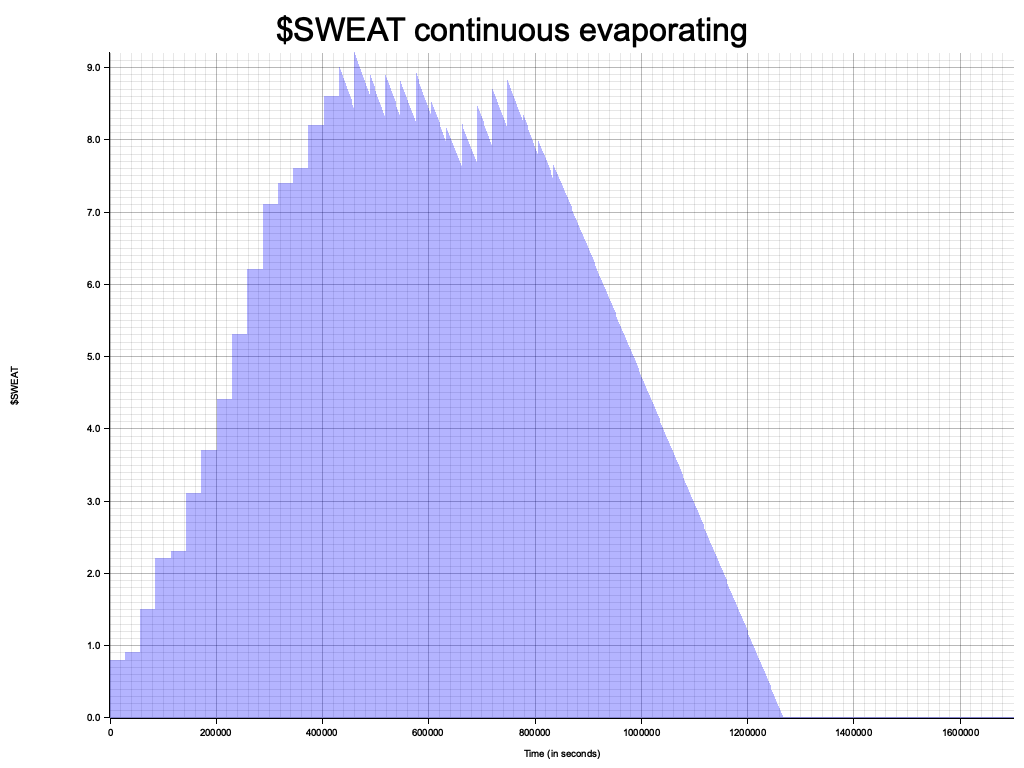
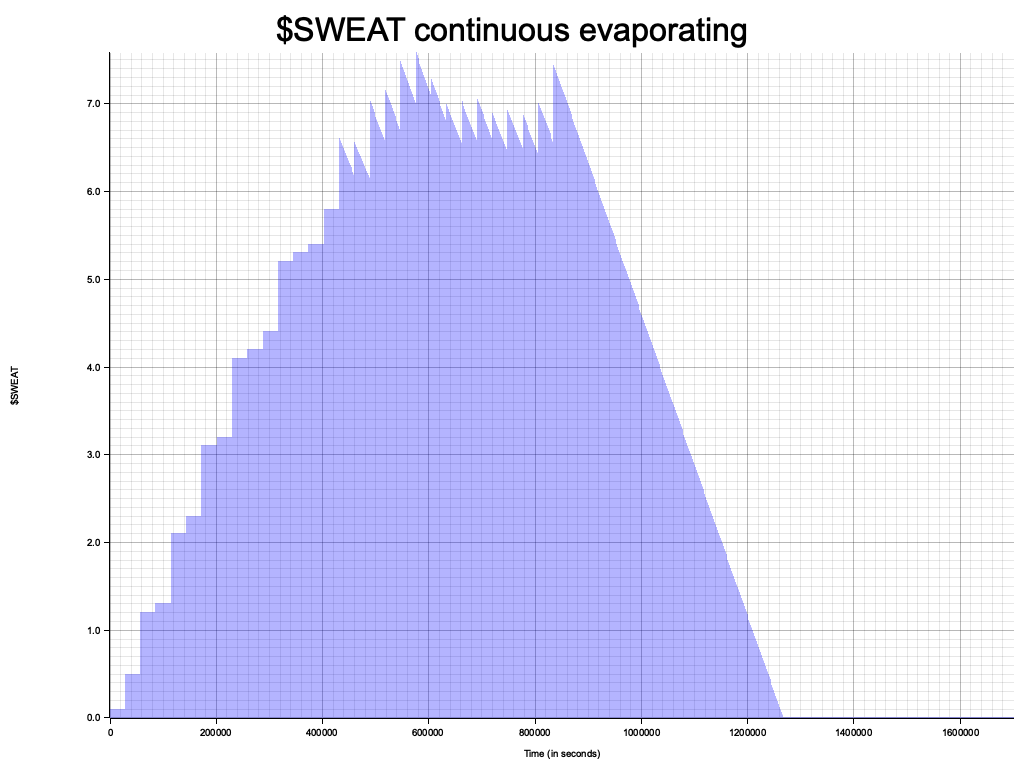
test: add util methods for test data

Changed region(s): [[0.0938, 0.0625, 1.0, 0.9375]]

diff --git a/contract/src/migration/tests.rs b/contract/src/migration/tests.rs
@@ -6,7 +6,7 @@ use claim_model::{
 };
 use near_sdk::json_types::U128;
 
-use crate::common::tests::Context;
+use crate::common::tests::{days_to_seconds, sweat_to_atto, Context};
 
 #[test]
 fn test_migration_with_burnt_balance_and_evaporating_sweat() {
@@ -15,30 +15,30 @@ fn test_migration_with_burnt_balance_and_evaporating_sweat() {
 
     context.switch_account(&accounts.oracle);
 
-    let burn_period = 864_000; // 10 days in seconds
+    let burn_period = days_to_seconds(10);
     contract.set_burn_period(burn_period);
 
     let mut current_timestamp = 0;
 
     // Record first top-up – 1 $SWEAT
-    let alice_balance_1 = U128(10u128.pow(18)); // 1 $SWEAT
-    contract.record_batch_for_hold_legacy(vec![(alice.clone(), alice_balance_1)]);
+    let alice_balance_1 = sweat_to_atto(1);
+    contract.record_batch_for_hold_legacy(vec![(alice.clone(), U128(alice_balance_1))]);
 
     // Time travel to some point in the future where alice_balance_1 is still not evaporated.
-    current_timestamp += 345_600; // + 4 days
-    context.set_block_timestamp_in_seconds(current_timestamp); // Now it's day 4
+    current_timestamp += days_to_seconds(4);
+    context.set_block_timestamp_in_seconds(current_timestamp as u64); // Now it's day 4
 
     // Record second top-up – 2 $SWEAT
-    let alice_balance_2 = U128(2 * 10u128.pow(18)); // 2 $SWEAT
-    contract.record_batch_for_hold_legacy(vec![(alice.clone(), alice_balance_2)]);
+    let alice_balance_2 = sweat_to_atto(2);
+    contract.record_batch_for_hold_legacy(vec![(alice.clone(), U128(alice_balance_2))]);
 
     // Time travel to some point in the future where alice_balance_1 evaporates
     // Now is 4 days from the start, so add not lees than 6 days.
-    current_timestamp += 691_200; // + 8 days
-    context.set_block_timestamp_in_seconds(current_timestamp); // Now it's day 12
+    current_timestamp += days_to_seconds(8);
+    context.set_block_timestamp_in_seconds(current_timestamp as u64); // Now it's day 12
 
     let alice_current_balance = contract.get_claimable_balance_for_account(alice.clone());
-    assert_eq!(alice_balance_2, alice_current_balance);
+    assert_eq!(alice_balance_2, alice_current_balance.0);
 
     // Migrate the Alice account
     let alice_account_outdated = contract.accounts_legacy.get(&alice).cloned().unwrap();
@@ -50,25 +50,25 @@ fn test_migration_with_burnt_balance_and_evaporating_sweat() {
 
     // Check that the balance is still the same
     let alice_current_balance = contract.get_claimable_balance_for_account(alice.clone());
-    assert_eq!(alice_balance_2, alice_current_balance);
+    assert_eq!(alice_balance_2, alice_current_balance.0);
 
     let alice_account = contract.accounts.get(alice).unwrap().into_latest();
     assert_eq!(
-        (current_timestamp - burn_period as u64) as UnixTimestamp,
+        (current_timestamp - burn_period) as UnixTimestamp,
         alice_account.burn_since
     );
     assert_eq!(
         alice_account_outdated.claim_period_refreshed_at,
         alice_account.claim_period_refreshed_at
     );
-    assert_eq!(alice_balance_2.0, alice_account.balance);
+    assert_eq!(alice_balance_2, alice_account.balance);
     assert!(alice_account.is_enabled);
     assert!(!alice_account.is_locked);
 
     // Time travel to some point in the future where alice_balance_2 evaporates.
     // As Alice hasn't claimed anything yet, it should start evaporating right after migration.
-    current_timestamp += 172_800; // + 2 days
-    context.set_block_timestamp_in_seconds(current_timestamp); // Now it's day 14
+    current_timestamp += days_to_seconds(2);
+    context.set_block_timestamp_in_seconds(current_timestamp as u64); // Now it's day 14
 
     let alice_current_balance = contract.get_claimable_balance_for_account(alice.clone());
     // Expect balance minus fee for 2 days of evaporating
@@ -83,34 +83,34 @@ fn test_migration_with_burnt_sweat_and_not_evaporating_sweat() {
 
     context.switch_account(&accounts.oracle);
 
-    let burn_period = 864_000; // 10 days in seconds
+    let burn_period = days_to_seconds(10);
     contract.set_burn_period(burn_period);
 
     let mut current_timestamp = 0;
 
     // Record first top-up – 1 $SWEAT
-    let alice_balance_1 = U128(10u128.pow(18)); // 1 $SWEAT
-    contract.record_batch_for_hold_legacy(vec![(alice.clone(), alice_balance_1)]);
+    let alice_balance_1 = sweat_to_atto(1);
+    contract.record_batch_for_hold_legacy(vec![(alice.clone(), U128(alice_balance_1))]);
 
     // Time travel to some point in the future where alice_balance_1 is still not evaporated.
-    current_timestamp += 172_800; // + 2 days
-    context.set_block_timestamp_in_seconds(current_timestamp); // Now it's day 2
+    current_timestamp += days_to_seconds(2);
+    context.set_block_timestamp_in_seconds(current_timestamp as u64); // Now it's day 2
 
     // Record second top-up – 4 $SWEAT
-    let alice_balance_2 = U128(4 * 10u128.pow(18)); // 4 $SWEAT
-    contract.record_batch_for_hold_legacy(vec![(alice.clone(), alice_balance_2)]);
+    let alice_balance_2 = sweat_to_atto(4);
+    contract.record_batch_for_hold_legacy(vec![(alice.clone(), U128(alice_balance_2))]);
 
     // Time travel to some point in the future where alice_balance_1 evaporates
     // Now is 2 days from the start, so add not lees than 8 days.
-    current_timestamp += 691_200; // + 8 days
-    context.set_block_timestamp_in_seconds(current_timestamp); // Now it's day 10
+    current_timestamp += days_to_seconds(8);
+    context.set_block_timestamp_in_seconds(current_timestamp as u64); // Now it's day 10
 
     let alice_current_balance = contract.get_claimable_balance_for_account(alice.clone());
-    assert_eq!(alice_balance_2, alice_current_balance);
+    assert_eq!(alice_balance_2, alice_current_balance.0);
 
     // One day later Alice claims their tokens
-    current_timestamp += 86_400; // + 1 day
-    context.set_block_timestamp_in_seconds(current_timestamp); // Now it's day 11
+    current_timestamp += days_to_seconds(1);
+    context.set_block_timestamp_in_seconds(current_timestamp as u64); // Now it's day 11
 
     // mime legacy claim
     let account = contract.accounts_legacy.get_mut(&accounts.alice.clone()).unwrap();
@@ -119,16 +119,16 @@ fn test_migration_with_burnt_sweat_and_not_evaporating_sweat() {
     // ---
 
     // Time travel to the near future
-    current_timestamp += 86_400; // + 1 day
-    context.set_block_timestamp_in_seconds(current_timestamp); // Now it's day 12
+    current_timestamp += days_to_seconds(1);
+    context.set_block_timestamp_in_seconds(current_timestamp as u64); // Now it's day 12
 
     // Record third top-up – 1 $SWEAT
-    let alice_balance_3 = U128(10u128.pow(18)); // 1 $SWEAT
-    contract.record_batch_for_hold_legacy(vec![(alice.clone(), alice_balance_3)]);
+    let alice_balance_3 = sweat_to_atto(1);
+    contract.record_batch_for_hold_legacy(vec![(alice.clone(), U128(alice_balance_3))]);
 
     // Two more day later a migration happens
-    current_timestamp += 172_800; // + 2 day
-    context.set_block_timestamp_in_seconds(current_timestamp); // Now it's day 14
+    current_timestamp += days_to_seconds(2);
+    context.set_block_timestamp_in_seconds(current_timestamp as u64); // Now it's day 14
 
     // Migrate the Alice account
     let alice_account_outdated = contract.accounts_legacy.get(&alice).cloned().unwrap();
@@ -140,7 +140,7 @@ fn test_migration_with_burnt_sweat_and_not_evaporating_sweat() {
 
     // Check that the balance is still the same
     let alice_current_balance = contract.get_claimable_balance_for_account(alice.clone());
-    assert_eq!(alice_balance_3, alice_current_balance);
+    assert_eq!(alice_balance_3, alice_current_balance.0);
 
     let alice_account = contract.accounts.get(alice).unwrap().into_latest();
     assert_eq!(
@@ -151,18 +151,18 @@ fn test_migration_with_burnt_sweat_and_not_evaporating_sweat() {
         alice_account_outdated.claim_period_refreshed_at,
         alice_account.claim_period_refreshed_at
     );
-    assert_eq!(alice_balance_3.0, alice_account.balance);
+    assert_eq!(alice_balance_3, alice_account.balance);
     assert!(alice_account.is_enabled);
     assert!(!alice_account.is_locked);
 
     // Time travel to some point in the future withing burn period.
     // As Alice has claimed their balance withing burn period, it shouldn't evaporate.
-    current_timestamp += 86_400; // + 1 days
-    context.set_block_timestamp_in_seconds(current_timestamp); // Now it's day 15
+    current_timestamp += days_to_seconds(1);
+    context.set_block_timestamp_in_seconds(current_timestamp as u64); // Now it's day 15
 
     let alice_current_balance = contract.get_claimable_balance_for_account(alice.clone());
     // Expect balance without any fees, as Alice claimed right before migration
-    let expected_balance = alice_balance_3.0;
+    let expected_balance = alice_balance_3;
     assert_eq!(expected_balance, alice_current_balance.0);
 }
 
@@ -173,30 +173,30 @@ fn test_migration_with_no_burnt_sweat() {
 
     context.switch_account(&accounts.oracle);
 
-    let burn_period = 864_000; // 10 days in seconds
+    let burn_period = days_to_seconds(10);
     contract.set_burn_period(burn_period);
 
     let mut current_timestamp = 0;
 
     // Record first top-up – 3 $SWEAT
-    let alice_balance_1 = U128(3 * 10u128.pow(18)); // 3 $SWEAT
-    contract.record_batch_for_hold_legacy(vec![(alice.clone(), alice_balance_1)]);
+    let alice_balance_1 = sweat_to_atto(3);
+    contract.record_batch_for_hold_legacy(vec![(alice.clone(), U128(alice_balance_1))]);
 
     // Time travel to some point in the future where alice_balance_1 is still not evaporated.
-    current_timestamp += 172_800; // + 2 days
-    context.set_block_timestamp_in_seconds(current_timestamp); // Now it's day 2
+    current_timestamp += days_to_seconds(2);
+    context.set_block_timestamp_in_seconds(current_timestamp as u64); // Now it's day 2
 
     // Record second top-up – 2 $SWEAT
-    let alice_balance_2 = U128(2 * 10u128.pow(18)); // 2 $SWEAT
-    contract.record_batch_for_hold_legacy(vec![(alice.clone(), alice_balance_2)]);
+    let alice_balance_2 = sweat_to_atto(2);
+    contract.record_batch_for_hold_legacy(vec![(alice.clone(), U128(alice_balance_2))]);
 
     // Time travel to some point in the future where both top-ups still don't evaporate
     // Now is 2 days from the start, so add not more than 8 days.
-    current_timestamp += 172_800; // + 2 days
-    context.set_block_timestamp_in_seconds(current_timestamp); // Now it's day 4
+    current_timestamp += days_to_seconds(2);
+    context.set_block_timestamp_in_seconds(current_timestamp as u64); // Now it's day 4
 
     let alice_current_balance = contract.get_claimable_balance_for_account(alice.clone());
-    assert_eq!(alice_balance_1.0 + alice_balance_2.0, alice_current_balance.0);
+    assert_eq!(alice_balance_1 + alice_balance_2, alice_current_balance.0);
 
     // Migrate the Alice account
     let alice_account_outdated = contract.accounts_legacy.get(&alice).cloned().unwrap();
@@ -208,7 +208,7 @@ fn test_migration_with_no_burnt_sweat() {
 
     // Check that the balance is still the same
     let alice_current_balance = contract.get_claimable_balance_for_account(alice.clone());
-    assert_eq!(alice_balance_1.0 + alice_balance_2.0, alice_current_balance.0);
+    assert_eq!(alice_balance_1 + alice_balance_2, alice_current_balance.0);
 
     let alice_account = contract.accounts.get(alice).unwrap().into_latest();
     assert_eq!(
@@ -219,17 +219,17 @@ fn test_migration_with_no_burnt_sweat() {
         alice_account_outdated.claim_period_refreshed_at,
         alice_account.claim_period_refreshed_at
     );
-    assert_eq!(alice_balance_1.0 + alice_balance_2.0, alice_account.balance);
+    assert_eq!(alice_balance_1 + alice_balance_2, alice_account.balance);
     assert!(alice_account.is_enabled);
     assert!(!alice_account.is_locked);
 
     // Time travel to some point in the future withing burn period.
     // As burn period hasn't passed, it shouldn't evaporate.
-    current_timestamp += 86_400; // + 1 days
-    context.set_block_timestamp_in_seconds(current_timestamp); // Now it's day 5
+    current_timestamp += days_to_seconds(1);
+    context.set_block_timestamp_in_seconds(current_timestamp as u64); // Now it's day 5
 
     let alice_current_balance = contract.get_claimable_balance_for_account(alice.clone());
     // Expect balance without any fees, as Alice claimed right before migration
-    let expected_balance = alice_balance_1.0 + alice_balance_2.0;
+    let expected_balance = alice_balance_1 + alice_balance_2;
     assert_eq!(expected_balance, alice_current_balance.0);
 }

diff --git a/contract/src/common/tests.rs b/contract/src/common/tests.rs
@@ -1,11 +1,10 @@
 #![cfg(test)]
 
-use std::time::Duration;
-
 use claim_model::{
     account_record::AccountRecordLegacy,
     api::InitApi,
     event::{emit, EventKind::Record, RecordAmountDetailed, RecordData},
+    Duration, TokensAmount,
 };
 use near_sdk::{json_types::U128, store::Vector, test_utils::VMContextBuilder, testing_env, AccountId};
 
@@ -13,6 +12,14 @@ use crate::{common::now_seconds, Contract, StorageKey::_AccrualsEntryLegacy};
 
 pub(crate) struct Context {
     builder: VMContextBuilder,
+}
+
+pub(crate) fn days_to_seconds(days: u64) -> Duration {
+    (days * 24 * 60 * 60) as Duration
+}
+
+pub(crate) fn sweat_to_atto(sweat: u128) -> TokensAmount {
+    sweat * 10u128.pow(18)
 }
 
 impl Context {
@@ -51,10 +58,10 @@ impl Context {
     }
 
     pub(crate) fn set_block_timestamp_in_seconds(&mut self, seconds: u64) {
-        self.set_block_timestamp(Duration::from_secs(seconds));
+        self.set_block_timestamp(std::time::Duration::from_secs(seconds));
     }
 
-    fn set_block_timestamp(&mut self, duration: Duration) {
+    fn set_block_timestamp(&mut self, duration: std::time::Duration) {
         self.builder.block_timestamp(duration.as_nanos() as u64);
         testing_env!(self.builder.build());
     }
